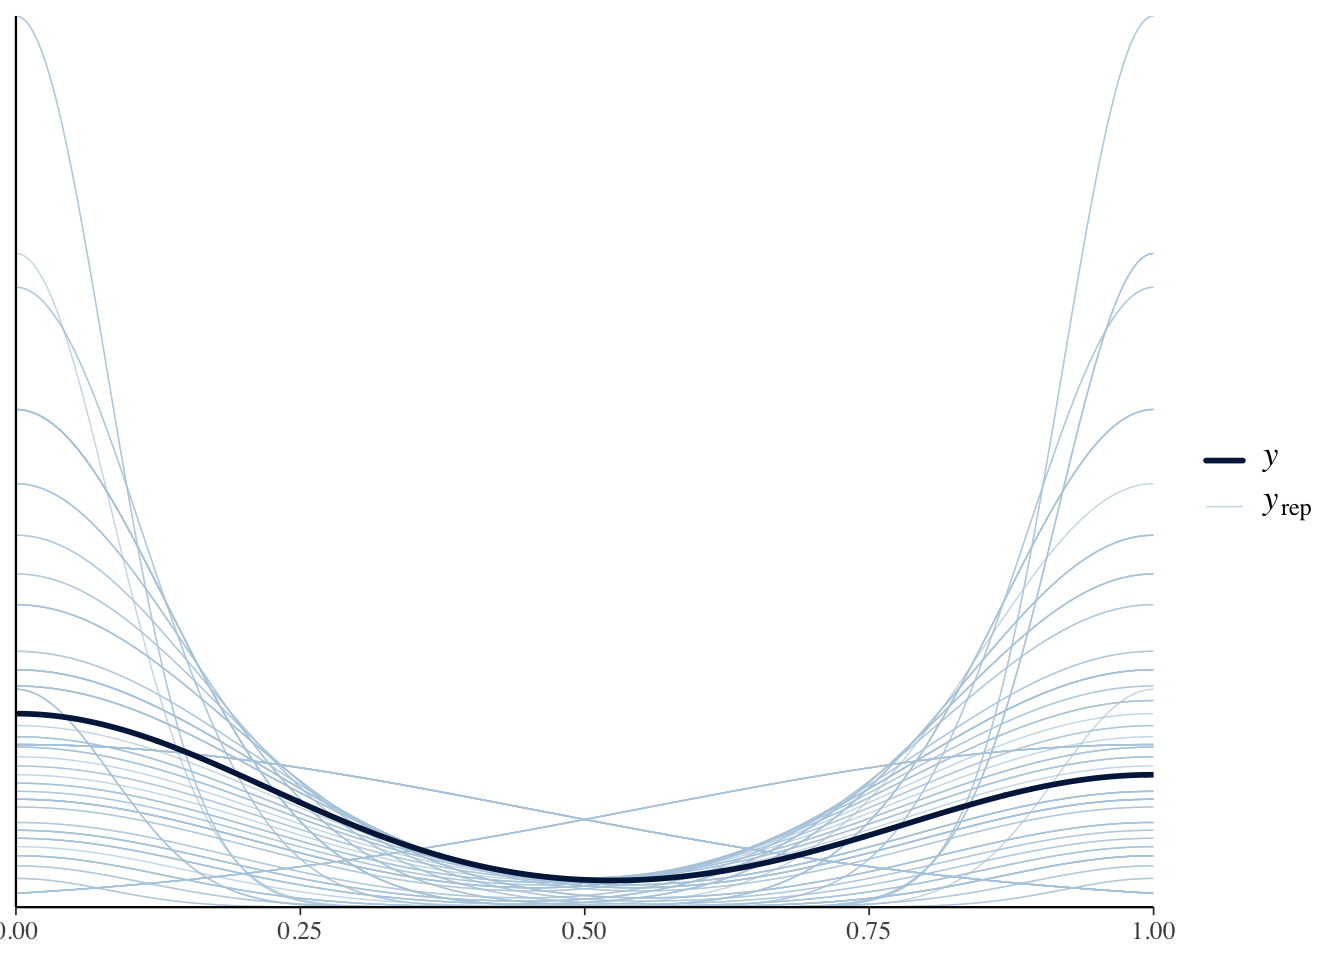
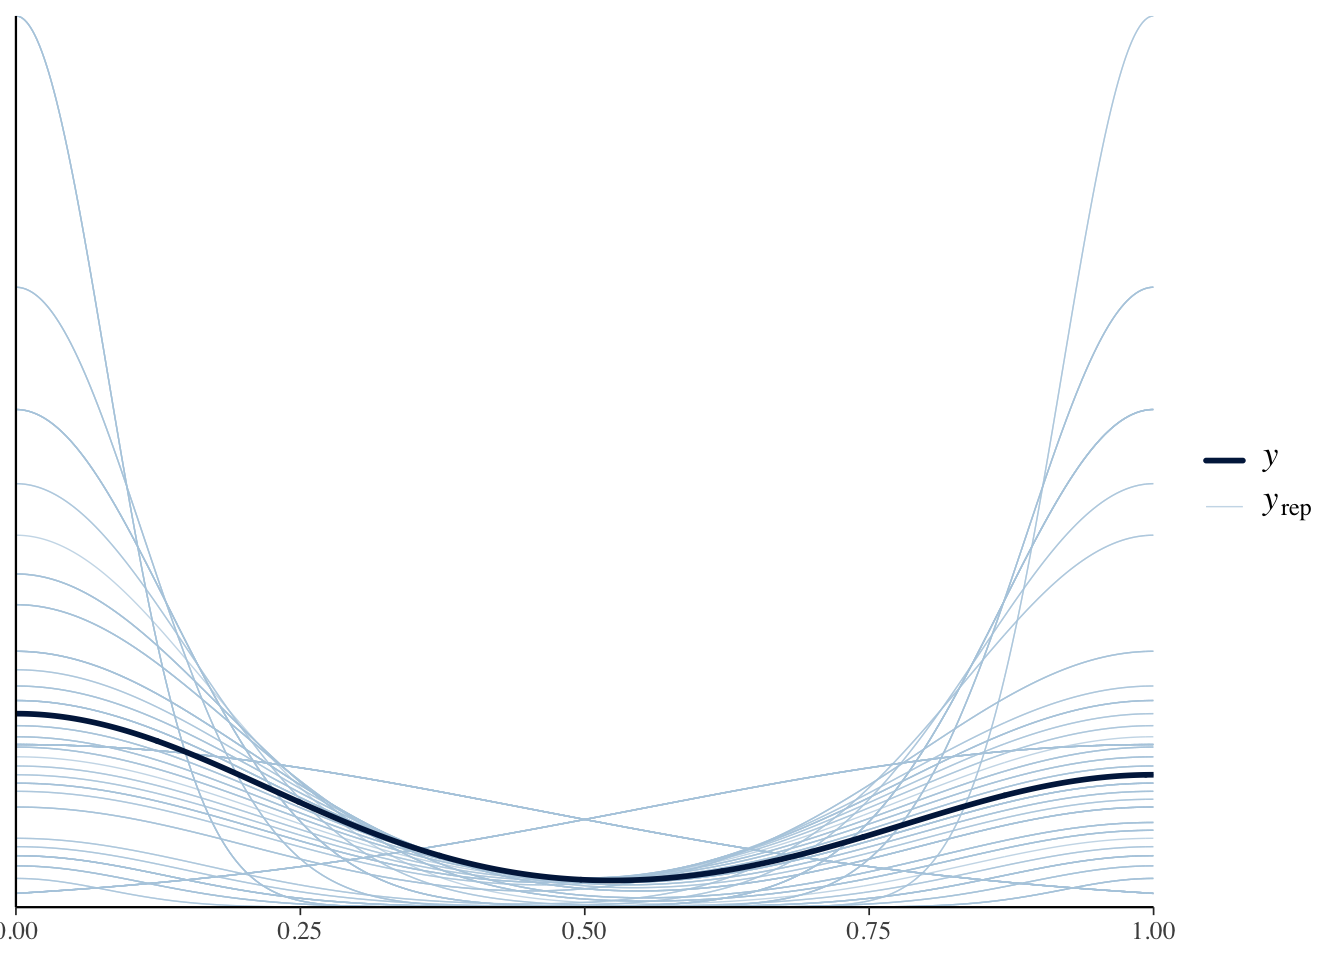
Added explanation and reference for savage-dickey BF's

diff --git a/Experimental Policies/bayesian-barg.html b/Experimental Policies/bayesian-barg.html
@@ -760,7 +760,7 @@ window.Quarto = {
 </table>
 </div>
 </div>
-<p>In this case the values are off the scale high so it’s best to report as greater than a large number rather than infinity and zero. Note that since the model predicts P(manual), <code>wt &lt; 0</code> corresponds to weight <em>decreasing</em> the probability of a manual transmission (equivalently, <em>increasing</em> the probability of an automatic transmission) — the same direction reported in the binomial regression example.</p>
+<p>In this case the values are off the scale high so it’s best to report as greater than a large number rather than infinity and zero. Note that since the model predicts P(manual), <code>wt &lt; 0</code> corresponds to weight <em>decreasing</em> the probability of a manual transmission (equivalently, <em>increasing</em> the probability of an automatic transmission) – the same direction reported in the binomial regression example. This method reports a Savage-Dickey Bayes factor <span class="citation" data-cites="Wagenmakers2010">(<a href="#ref-Wagenmakers2010" role="doc-biblioref">Wagenmakers et al. 2010</a>)</span>, which quantifies the relative evidence (how much the data multiply the prior odds) in favor of one hypothesis over the other.</p>
 <blockquote class="blockquote">
 <p>The Bayes Factor for the hypothesis that higher vehicle weight is associated with a higher probability of an automatic transmission is &gt;1,000,000 with a posterior probability of &gt;0.999.</p>
 </blockquote>
@@ -929,6 +929,9 @@ Kruschke, John K. 2021. <span>“Bayesian <span>Analysis Reporting Guidelines</s
 </div>
 <div id="ref-r-core" class="csl-entry" role="listitem">
 R Core Team. 2024. <em>R: A Language and Environment for Statistical Computing</em>. R Foundation for Statistical Computing. <a href="https://www.R-project.org/">https://www.R-project.org/</a>.
+</div>
+<div id="ref-Wagenmakers2010" class="csl-entry" role="listitem">
+Wagenmakers, Eric-Jan, Tom Lodewyckx, Himanshu Kuriyal, and Raoul Grasman. 2010. <span>“Bayesian Hypothesis Testing for Psychologists: A Tutorial on the Savage–Dickey Method.”</span> <em>Cognitive Psychology</em> 60 (3): 158–89. <a href="https://doi.org/10.1016/j.cogpsych.2009.12.001">https://doi.org/10.1016/j.cogpsych.2009.12.001</a>.
 </div>
 </div>
 </section>

diff --git a/Experimental Policies/bayesian-barg.html.md b/Experimental Policies/bayesian-barg.html.md
@@ -405,7 +405,7 @@ Table: Hypothesis test for effects of weight on automatic transmission
 :::
 
 
-In this case the values are off the scale high so it's best to report as greater than a large number rather than infinity and zero. Note that since the model predicts P(manual), `wt < 0` corresponds to weight *decreasing* the probability of a manual transmission (equivalently, *increasing* the probability of an automatic transmission) — the same direction reported in the binomial regression example.
+In this case the values are off the scale high so it's best to report as greater than a large number rather than infinity and zero. Note that since the model predicts P(manual), `wt < 0` corresponds to weight *decreasing* the probability of a manual transmission (equivalently, *increasing* the probability of an automatic transmission) -- the same direction reported in the binomial regression example.  This method reports a Savage-Dickey Bayes factor [@Wagenmakers2010], which quantifies the relative evidence (how much the data multiply the prior odds) in favor of one hypothesis over the other.
 
 >The Bayes Factor for the hypothesis that higher vehicle weight is associated with a higher probability of an automatic transmission is >1,000,000 with a posterior probability of >0.999.
 